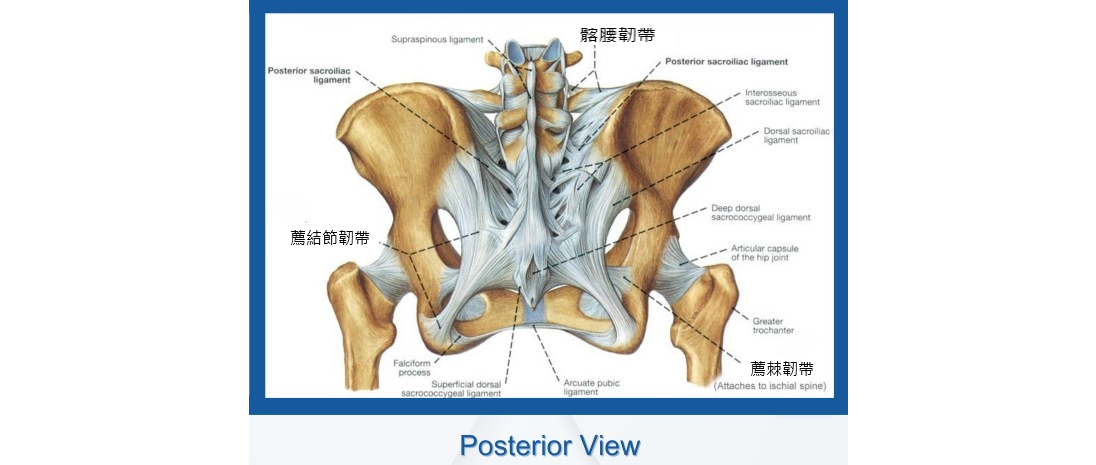
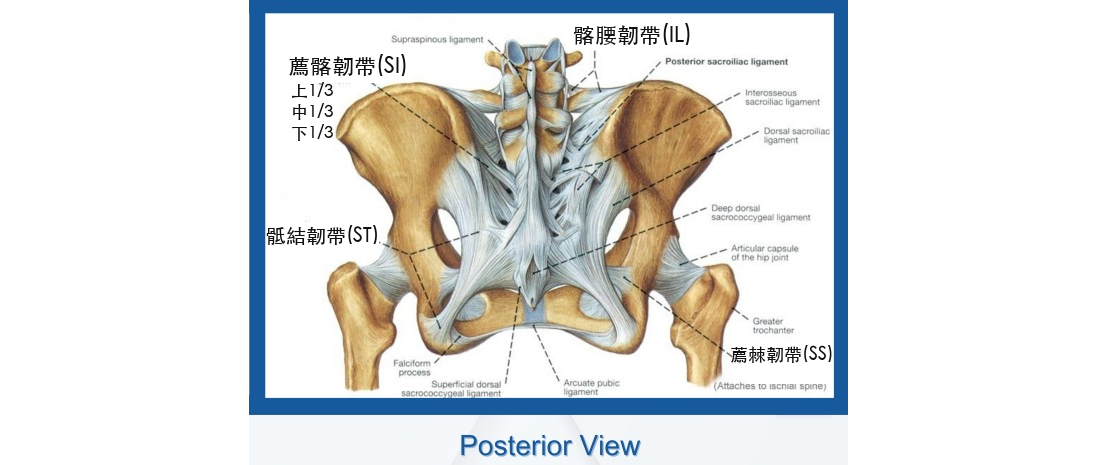
Update ligament reference tables and labels

diff --git a/index.html b/index.html
@@ -105,6 +105,70 @@
     font-size: 14px;
     line-height: 1.7;
   }
+  .clinical-notes {
+    font-size: 15px;
+    line-height: 1.7;
+  }
+  .problem-group {
+    border-left: 4px solid var(--gold);
+    padding-left: 14px;
+    margin-bottom: 4px;
+  }
+  .problem-group h3,
+  .note-section h3,
+  .subsection h4 {
+    color: var(--teal);
+    margin: 0;
+  }
+  .problem-group p {
+    margin: 4px 0 0;
+  }
+  .definition-list {
+    margin: 4px 0 0;
+    padding-left: 18px;
+  }
+  .definition-list li {
+    margin-top: 2px;
+  }
+  .note-section {
+    border-top: 1px solid #eee;
+    padding: 16px 0;
+  }
+  .note-section h3 {
+    font-size: 17px;
+    margin-bottom: 6px;
+  }
+  .detail-row {
+    display: flex;
+    gap: 4px;
+    align-items: baseline;
+    margin-top: 2px;
+  }
+  .detail-label {
+    color: var(--teal);
+    font-weight: 700;
+    flex-shrink: 0;
+  }
+  .detail-value {
+    color: #444;
+  }
+  .subsections {
+    margin-top: 10px;
+  }
+  .subsection {
+    border-left: 2px solid #e5d4a2;
+    padding: 8px 0 8px 12px;
+    margin-top: 8px;
+  }
+  .subsection h4 {
+    font-size: 15px;
+    margin-bottom: 4px;
+  }
+  @media (max-width: 640px) {
+    .detail-row {
+      display: block;
+    }
+  }
   .sub-list {
     list-style: none;
     padding: 0;
@@ -201,13 +265,69 @@ const REGIONS = [
     name: '髖韌帶—肌肉對應表',
     image: null,
     textContent: {
-      type: 'link-table',
+      type: 'clinical-notes',
       title: '髖部韌帶與相關肌肉對應',
-      groups: [
-        { name: '薦結節韌帶 Sacrotuberous', items: ['股二頭肌 Biceps femoris', '臀大肌 Gluteus maximus', '半腱肌 Semitendinosus'] },
-        { name: '薦棘韌帶 Sacrospinous', items: ['骨盆底肌 Pelvic floor', '髖外旋肌群 External rotators'] },
-        { name: '腹股溝韌帶 Inguinal', items: ['髂腰肌 Psoas', '股直肌 Rectus femoris', '腹斜肌 Obliques', '腹橫肌 TVA', '內收肌群 Adductors'] },
-        { name: '髂腰韌帶 Iliolumbar', items: ['腰方肌 Quadratus lumborum', '髂肌 Iliac'] }
+      problemTitle: '常見問題',
+      problems: '慣性髖緊卡、有壓迫、曾跌坐、喜翹腳、產後、骨盆核心障礙、下背痛、長短腿、步態問題',
+      sections: [
+        {
+          marker: 'a.',
+          title: '髂腰韌帶(IL)',
+          details: [
+            { label: '常見配對', value: '左右IL互相代償、同側SI to 同側腹股溝韌帶' },
+            { label: '位置', value: '髂骨—腰椎' },
+            { label: '作用肌肉', value: '同側QL、ES、Multifidus' },
+            { label: '常見症狀', value: '骨盆三平面翻轉' }
+          ]
+        },
+        {
+          marker: 'b.',
+          title: '薦髂韌帶(SI)',
+          details: [
+            { label: '常見配對', value: '左右SI互相代償' }
+          ],
+          subsections: [
+            {
+              title: '上1/3',
+              details: [
+                { label: '作用肌肉', value: 'Gmax、Gmed、ES、QL' },
+                { label: '常見症狀', value: '薦椎上1/3前旋轉' }
+              ]
+            },
+            {
+              title: '中1/3',
+              details: [
+                { label: '作用肌肉', value: 'Piriformis' },
+                { label: '常見症狀', value: '薦椎中1/3有左或右側翻轉，及坐骨神經問題' }
+              ]
+            },
+            {
+              title: '下1/3',
+              details: [
+                { label: '作用肌肉', value: '腿後、股方肌' },
+                { label: '常見症狀', value: '薦椎下1/3往前旋轉，及坐骨神經問題' }
+              ]
+            }
+          ]
+        },
+        {
+          marker: 'c.',
+          title: '骶結韌帶(ST)',
+          details: [
+            { label: '常見配對', value: '同側ST to 對側SS' },
+            { label: '位置', value: '坐骨粗隆往內上方連接薦椎' },
+            { label: '作用肌肉', value: '腿後、股方肌' }
+          ]
+        },
+        {
+          marker: 'd.',
+          title: '薦棘韌帶(SS)',
+          details: [
+            { label: '位置', value: 'ST之1/2往外＋往上一點點處' },
+            { label: '作用肌肉', value: 'OI、骨盆底肌' },
+            { label: '常見症狀', value: '骨盆底肌功能失常(漏尿)' }
+          ]
+        }
       ]
     }
   },
@@ -225,6 +345,96 @@ const REGIONS = [
     id: 'shoulder',
     name: '肩部韌帶',
     image: 'photos/Shoulder Ligament.png'
+  },
+  {
+    id: 'shoulder-link',
+    name: '肩韌帶－肌肉對應表',
+    image: null,
+    textContent: {
+      type: 'clinical-notes',
+      title: '肩韌帶與相關肌肉對應',
+      definitionTitle: '定義位置',
+      definitions: [
+        '喙突：肱骨頭內緣深層凸點',
+        '肩峰：肩外側凸點'
+      ],
+      sections: [
+        {
+          marker: 'a.',
+          title: '鎖間韌帶(TranseverseC)',
+          details: [
+            { label: '位置', value: '雙側鎖骨之間' },
+            { label: '影響', value: '肩胛骨' },
+            { label: '作用肌肉', value: '三角肌' }
+          ]
+        },
+        {
+          marker: 'b.',
+          title: '胸鎖韌帶(SC)',
+          details: [
+            { label: '常見配對', value: '同側AC to 對側SC' },
+            { label: '位置', value: '鎖骨—胸骨' },
+            { label: '影響', value: '鎖骨與肩胛骨' },
+            { label: '作用肌肉', value: '三角肌、外展相關、上舉相關' }
+          ]
+        },
+        {
+          marker: 'c.',
+          title: '喙鎖韌帶(CC)',
+          details: [
+            { label: '位置', value: '鎖骨外側1/3—喙突' },
+            { label: '影響', value: '鎖骨' },
+            { label: '作用肌肉', value: 'SCM、鎖骨下肌、胸大肌、三角肌' }
+          ]
+        },
+        {
+          marker: 'd.',
+          title: '喙肩韌帶(CA)',
+          details: [
+            { label: '位置', value: '喙突往外往上連到肩峰' },
+            { label: '影響', value: '肱骨' },
+            { label: '作用肌肉', value: '闊背肌、棘上肌' }
+          ]
+        },
+        {
+          marker: 'e.',
+          title: '肩鎖韌帶(AC)',
+          details: [
+            { label: '位置', value: '肩胛棘—鎖骨，與盂肱關節和旋轉肌有關' },
+            { label: '影響', value: '肱骨' },
+            { label: '作用肌肉', value: '三角肌、旋轉肌群 (棘上肌、棘下肌、肩胛下肌、小圓肌)' }
+          ]
+        },
+        {
+          marker: 'f.',
+          title: '喙肱韌帶(CH)',
+          details: [
+            { label: '位置', value: '喙突往前連到肱骨頭' },
+            { label: '影響', value: '肩胛骨' },
+            { label: '作用肌肉', value: '菱形肌、上斜方肌、水平外展相關' }
+          ]
+        },
+        {
+          marker: 'g.',
+          title: '盂肱韌帶(GH)',
+          details: [
+            { label: '位置', value: '前三角肌和胸肌的交界(前肩到胸整排)' },
+            { label: '影響', value: '肱骨' },
+            { label: '作用肌肉', value: '前關節囊、上斜方肌、中斜方肌、下斜方肌、肩外轉相關(棘下肌、大圓肌、小圓肌)' }
+          ]
+        },
+        {
+          marker: 'h.',
+          title: '後關節囊(P.Capsule)',
+          details: [
+            { label: '常見配對', value: '前後關節囊互相代償' },
+            { label: '位置', value: '手臂與身體之直角交界處' },
+            { label: '影響', value: '肱骨' },
+            { label: '常見症狀', value: '肱骨加/減壓問題' }
+          ]
+        }
+      ]
+    }
   }
 ];
 
@@ -258,6 +468,39 @@ function renderTextPanel(content) {
       html += '</ul></div>';
     });
     html += '</div>';
+  } else if (content.type === 'clinical-notes') {
+    html += '<div class="clinical-notes">';
+    if (content.problemTitle) {
+      html += '<div class="problem-group"><h3>' + content.problemTitle + '</h3><p>' + content.problems + '</p></div>';
+    }
+    if (content.definitionTitle) {
+      html += '<div class="problem-group"><h3>' + content.definitionTitle + '</h3><ul class="definition-list">';
+      content.definitions.forEach(definition => {
+        html += '<li>' + definition + '</li>';
+      });
+      html += '</ul></div>';
+    }
+    content.sections.forEach(section => {
+      html += '<section class="note-section"><h3>' + section.marker + ' ' + section.title + '</h3>';
+      if (section.details) {
+        section.details.forEach(detail => {
+          html += '<div class="detail-row"><span class="detail-label">' + detail.label + '：</span><span class="detail-value">' + detail.value + '</span></div>';
+        });
+      }
+      if (section.subsections) {
+        html += '<div class="subsections">';
+        section.subsections.forEach(subsection => {
+          html += '<div class="subsection"><h4>' + subsection.title + '</h4>';
+          subsection.details.forEach(detail => {
+            html += '<div class="detail-row"><span class="detail-label">' + detail.label + '：</span><span class="detail-value">' + detail.value + '</span></div>';
+          });
+          html += '</div>';
+        });
+        html += '</div>';
+      }
+      html += '</section>';
+    });
+    html += '</div>';
   } else if (content.items) {
     html += '<ul class="sub-list">';
     content.items.forEach(it => {
@@ -287,7 +530,11 @@ function render(regionId) {
 }
 
 select.addEventListener('change', e => render(e.target.value));
-render(REGIONS[0].id);
+
+const initialRegionId = window.location.hash.slice(1);
+const initialRegion = REGIONS.some(r => r.id === initialRegionId) ? initialRegionId : REGIONS[0].id;
+select.value = initialRegion;
+render(initialRegion);
 </script>
 </body>
 </html>

diff --git a/CONVERSATION-2026-06-29.md b/CONVERSATION-2026-06-29.md
@@ -1,0 +1,52 @@
+# Conversation Record - 2026-06-29
+
+## Project
+
+`rbtc-nktrefer`
+
+## User requests
+
+- Read the published site and local project context, then prepare to add content.
+- Update the hip posterior ligament image and hip ligament-muscle table.
+- Iteratively adjust hip image label positions to avoid cutting into the frame, anatomy art, and source labels.
+- Update the shoulder ligament image with abbreviations and text changes.
+- Add a new shoulder ligament-muscle reference page.
+- Normalize shoulder table titles to `韌帶名稱(縮寫)`.
+- Push all completed changes and run the project closeout process.
+
+## Key decisions
+
+- Used `/Users/weida6610/Documents/Codex/Projects/rbtc-nktrefer` as the active repository.
+- Regenerated edited PNGs from `git show HEAD:<image>` rather than repeatedly editing already-modified images, reducing cumulative artifacts.
+- Preserved shoulder leader lines for `肩胛頸` and `肩胛骨` because they pass through anatomical shading.
+- Added hash-based section loading for easier previewing and future direct links.
+- Created project work logs because the active project did not previously contain a `WORKLOG.md`.
+
+## Implementation summary
+
+- `index.html`
+  - Added reusable `clinical-notes` rendering and styles.
+  - Replaced the hip ligament-muscle table with detailed clinical note sections.
+  - Added the `肩韌帶－肌肉對應表` page.
+  - Added hash initial selection support.
+- `photos/Hip Ligament Posterior.png`
+  - Updated posterior hip ligament labels and abbreviations.
+- `photos/Shoulder Ligament.png`
+  - Updated shoulder ligament labels, abbreviations, and view marker.
+- `WORKLOG.md`
+  - Added closeout work log.
+
+## Verification results
+
+- Visual checks were performed on edited image files.
+- Chrome headless previews were generated for the hip and shoulder table pages.
+- Final changed files before commit:
+  - `index.html`
+  - `photos/Hip Ligament Posterior.png`
+  - `photos/Shoulder Ligament.png`
+  - `WORKLOG.md`
+  - `CONVERSATION-2026-06-29.md`
+
+## Deployment state
+
+- Pending at the time this record was written; final commit and push were requested as part of closeout.

diff --git a/WORKLOG.md b/WORKLOG.md
@@ -1,0 +1,33 @@
+# Work Log
+
+## 2026-06-29 06:13 CST
+
+### Main changes
+
+- Updated the hip posterior ligament reference image:
+  - Added/adjusted IL, SI, ST, and SS labels.
+  - Renamed sacrotuberous wording to `骶結韌帶(ST)`.
+  - Replaced the left posterior sacroiliac label with `薦髂韌帶(SI)` and added `上1/3`, `中1/3`, `下1/3`.
+  - Reworked label placement from the original image source multiple times to avoid cutting into the blue frame, pelvic bone, and source English text.
+- Replaced the hip ligament-muscle table with structured clinical notes.
+- Updated the shoulder ligament reference image:
+  - Changed the view badge to `正面觀`.
+  - Added AC, CC, CA, CH, and GH abbreviations.
+  - Renamed `關節囊韌帶` to `盂肱韌帶(GH)`.
+  - Removed shoulder neck and scapula text while preserving source leader lines to avoid damaging the anatomy art.
+  - Fine-tuned CA and CH label positions.
+- Added a new `肩韌帶－肌肉對應表` page.
+- Added hash-based initial navigation so URLs such as `#hip-link` and `#shoulder-link` open the requested section directly.
+
+### Verification
+
+- Reviewed edited PNGs visually with local image inspection.
+- Rendered local HTML previews with Chrome headless for:
+  - `#hip-link`
+  - `#shoulder-link`
+- Checked `git diff --stat` and `git status --short` before committing.
+
+### Known issues / notes
+
+- The shoulder scapula/neck leader lines remain in place intentionally. Removing them would require retouching over anatomical shading and may degrade the original image.
+- The pushed site is GitHub Pages; propagation may take a short time after push.